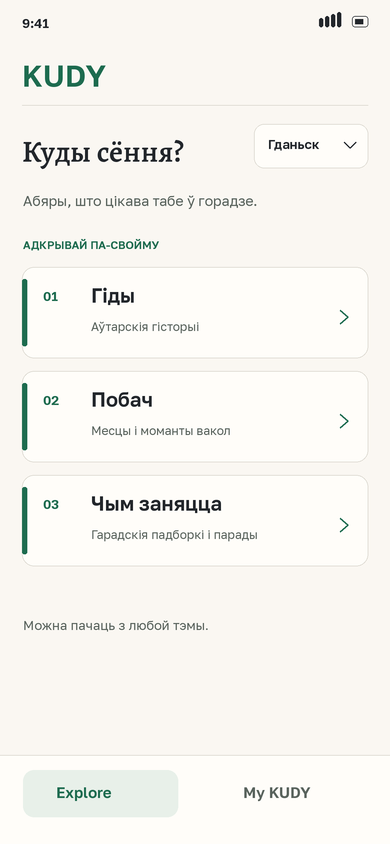
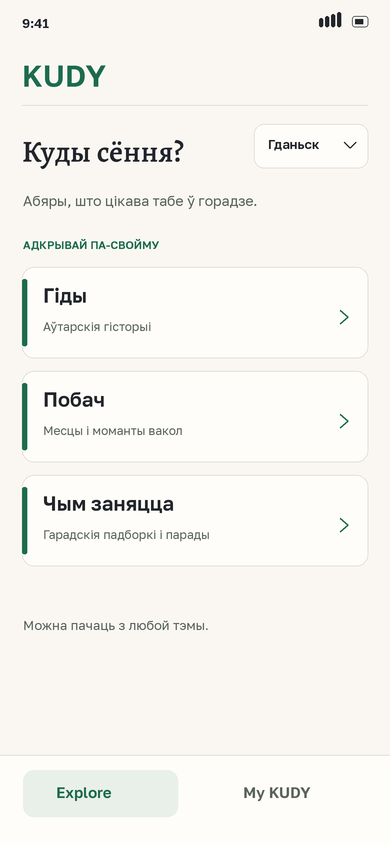
docs(design): compare brand systems and refine KUDY entry

Changed region(s): [[0.0923, 0.5853, 0.6462, 0.6469], [0.0923, 0.4621, 0.5846, 0.5237], [0.0923, 0.3389, 0.5231, 0.4005]]

diff --git a/docs/design/brand/outputs/brand-entry-2026-10-19/render.py b/docs/design/brand/outputs/brand-entry-2026-10-19/render.py
@@ -46,12 +46,11 @@ def base(with_header=True):
     return image
 
 
-def page_card(draw, y, number, title, subline):
+def page_card(draw, y, title, subline):
     draw.rounded_rectangle(at(22, y, 368, y + 91), radius=12 * S, fill=WHITE, outline=HAIRLINE, width=2)
     draw.rounded_rectangle(at(22, y + 12, 27, y + 79), radius=2 * S, fill=GREEN)
-    put(draw, (43, y + 21), number, 13, GREEN, strong=True)
-    put(draw, (91, y + 16), title, 20, strong=True)
-    put(draw, (91, y + 52), subline, 12, MUTED)
+    put(draw, (43, y + 16), title, 20, strong=True)
+    put(draw, (43, y + 52), subline, 12, MUTED)
     draw.line(at(340, y + 43, 348, y + 50, 340, y + 57), fill=GREEN, width=4)
 
 
@@ -79,7 +78,7 @@ def screen(ready):
         width = draw.textbbox((0, 0), word, font=word_font)[2]
         draw.text(((image.width - width) // 2 - 16 * S, 333 * S), word, font=word_font, fill=GREEN)
         draw.line(at(167, 416, 230, 416), fill=GREEN, width=5)
-        put(draw, (115, 553), "Загружаем матэрыялы…", 13, MUTED)
+        put(draw, (115, 553), "Рыхтуем матэрыялы…", 13, MUTED)
     else:
         draw.rounded_rectangle(at(254, 124, 368, 168), radius=10 * S, fill=WHITE, outline=HAIRLINE, width=2)
         put(draw, (268, 136), "Гданьск", 13, strong=True)
@@ -87,9 +86,9 @@ def screen(ready):
         put(draw, (22, 131), "Куды сёння?", 30, display=True)
         put(draw, (23, 192), "Абяры, што цікава табе ў горадзе.", 14, MUTED)
         put(draw, (23, 238), "АДКРЫВАЙ ПА-СВОЙМУ", 11, GREEN, strong=True)
-        page_card(draw, 267, "01", "Гіды", "Аўтарскія гісторыі")
-        page_card(draw, 371, "02", "Побач", "Месцы і моманты вакол")
-        page_card(draw, 475, "03", "Чым заняцца", "Гарадскія падборкі і парады")
+        page_card(draw, 267, "Гіды", "Аўтарскія гісторыі")
+        page_card(draw, 371, "Побач", "Месцы і моманты вакол")
+        page_card(draw, 475, "Чым заняцца", "Гарадскія падборкі і парады")
         put(draw, (23, 617), "Можна пачаць з любой тэмы.", 13, MUTED)
         nav(draw)
     result = image.resize((390, 844), Image.Resampling.LANCZOS)

diff --git a/docs/design/brand/outputs/brand-entry-2026-10-19/research.md b/docs/design/brand/outputs/brand-entry-2026-10-19/research.md
@@ -12,6 +12,28 @@
 | [Google Design: SPAN across cities](https://design.google/library/designing-span-2017) | Модульная абстрактная сістэма працавала ў розных гарадах і маштабах; занадта літаральныя і шумныя варыянты адсеялі пасля праверкі. | Гданьскі фасад можа жыць у мясцовай гісторыі, але не быць пастаянным знакам KUDY. Універсальны элемент трэба праверыць на іншых гарадах. Гэта аналогія, а не норма платформы. |
 | [Duolingo: Reshaping Duo](https://blog.duolingo.com/reshaping-duo/) і [Building Character](https://blog.duolingo.com/building-character/) | Каманда захоўвала пазнавальную форму героя і стварала для іншых персанажаў агульную візуальную мову. | Калі дракон KUDY прысутнічае, яго прапорцыі і матэрыял трэба праектаваць як частку сістэмы. Проста ўставіць сілуэт фігуркі на экран недастаткова. Гэта выснова з кейса, не правіла Duolingo для KUDY. |
 
+## Параўнанне брэнд-сістэм
+
+Тут раздзяляюцца **зафіксаваныя ў крыніцы правілы** і **наш дызайнерскі вывад**. Публічныя матэрыялы розных кампаній маюць розную глыбіню: у Telegram знойдзены афіцыйныя лагатыпы і скрыншоты, але не поўны адкрыты брэндбук. Таму радок Telegram — назіранне за матэрыяламі, не прыпісанае яму ўнутранае правіла.
+
+| Брэнд і першакрыніца | Ідэя ў сістэме | Што пераносім у KUDY; што не капіруем |
+|---|---|---|
+| [Tripadvisor — кейс аўтараў айдэнтыкі Mother Design](https://www.motherdesign.com/work/tripadvisor) | Пераход ад сайта водгукаў да сэрвісу парад з досведу людзей задаў мэту рэдызайну. Саву спрасцілі, захаваўшы пазнавальнасць; Trip Sans, круглая геаметрыя, іконкі і ілюстрацыі працягваюць адзін прынцып. Выявы канкрэтных месцаў могуць змяняцца, а сістэма трымаецца. | Для KUDY пачынаць з абяцання «адкрываць горад праз аўтарскія гісторыі», а затым будаваць тыпаграфіку, знакі, кампазіцыю і тон разам. Не рабіць адной мясцовай панарамы пастаяннай выявай усёй праграмы і не запазычваць саву ці круглую геаметрыю. |
+| [Instagram — Design at Meta, рэдакцыя 2026](https://www.meta.com/design-at-meta/blog/the-new-instagram-brand-identity/) | Абноўлены вордмарк захаваў характар папярэдняга напісання. Градыент стаў больш стрыманым у руху, раскладцы і інтэрфейсе; паветра ў кампазіцыі дазваляе зместу супольнасці быць галоўным. | Сталыя KUDY, папера, зялёны і чарніла могуць абрамляць зменныя гісторыі гарадоў. Не пераносіць градыент ці эстэтыку сацыяльнай стужкі; свабодная прастора патрэбная, каб падказкі і гіды чыталіся. |
+| [Telegram — афіцыйныя лагатыпы і скрыншоты](https://telegram.org/tour/screenshots) | У апублікаваных матэрыялах паслядоўны знак самалёціка суіснуе са скрыншотамі, дзе асноўнае месца займаюць размовы. Гэта **наша назіранне**, а не цытата з брэндбука. | Паслядоўны знак не патрабуе маляваць яго вялікім на кожным экране. Для KUDY пакуль няма прынятага знака B05, таму не ператвараем дракона ў такую іконку без рашэння. |
+| [X — актуальны брэнд-кіт](https://about.x.com/en/who-we-are/brand-toolkit) і [кароткія правілы X](https://about.x.com/content/dam/about-twitter/x/brand-toolkit/x-brand-guidelines.pdf) | Сённяшні знак X задаецца ў чорным або белым, з кантрастам і ахоўнай прасторай. Актуальны набор адрозніваецца ад гістарычнай птушкі Twitter; яго старое імя не апісвае сённяшні візуальны канон. | Правілы ўзнаўлення знака патрэбныя пасля выбару B05: колер, памер, поле, цёмная тэма. Не падмяняць прадукт абстрактнай манаграмай без праверкі распазнання і не капіраваць манахром X як характар KUDY. |
+| [Duolingo — лагатыпы](https://design.duolingo.com/identity/logos), [вобраз героя](https://design.duolingo.com/identity/imagery) | Форма Duo звязана з фірмовым напісаннем, іконкай, ілюстрацыяй і голасам персанажа; герой мае зададзеныя ролю і паводзіны. | Дракон KUDY можа быць гідам у гісторыі, але яго знешнасць, маштаб і спосаб з'яўлення павінны быць правераныя па сапраўднай фігурцы і зададзеныя сістэмна. Манеру Duolingo з настойлівымі нагадваннямі не пераносім: брыф KUDY патрабуе свабоды і маўчання. |
+| [Spotify — афіцыйныя правілы для інтэграцый](https://developer.spotify.com/documentation/design) | У партнёрскіх кантэкстах выкарыстоўваецца поўнае спалучэнне знака і назвы; асобная іконка дапускаецца пры малым месцы або калі брэнд ужо вядомы. Прапісаныя памер, кантраст і свабоднае поле. Гэта правілы **для партнёраў**, не поўная інструкцыя ўнутранага інтэрфейсу Spotify. | Пакуль знак KUDY не ўхвалены і не навучаны аўдыторыі, назва павінна чытацца на ўваходзе. У будучым для B05 патрэбныя правілы памераў і кантрасту. Не лічыць, што адзін сілуэт дракона ўжо распазнаецца як KUDY. |
+| [Mastercard — Brand Center](https://www.mastercard.com/brandcenter/us/en/brand-requirements/mastercard.html) | Знак, назва і канфігурацыі маюць дакладныя ўмовы кантрасту, мінімальнага памеру, ахоўнага поля і дапушчальнага колеру. Самастойны сімвал працуе ў межах вызначанага кантэксту і даўно замацаванай пазнавальнасці. | Для будучай іконкі KUDY патрэбная асобная тэхнічная спецыфікацыя, асабліва для Android/iOS і малых памераў. Гэта не аргумент узяць любую простую форму і назваць яе лагатыпам. |
+
+### Прафесійныя крытэрыі, якія вынікаюць з параўнання
+
+1. **Ідэя → знак → сістэма → экран.** Спачатку фармулюем каштоўнасць і ролю прадукту; правяраем, ці падтрымліваюць яе назва, матэрыял, тыпаграфіка, іконкі, тон і дзеянні. Адзіны малюнак не закрывае гэты ланцуг.
+2. **Пастаяннае аддзяляецца ад зменнага.** Назва і візуальная граматыка пазнавальныя на ўсіх гарадах; горад, гід, фотаздымак і дракон у сюжэце служаць канкрэтнаму зместу. Гэта дызайнерскі вывад з Tripadvisor і Instagram, узгоднены з нашым брыфам.
+3. **Сімвал патрабуе кантракту ўжывання.** Патрэбныя маштаб, кантраст, ахоўная зона, варыянты фону, праверка маленькай іконкі і зразумелая сувязь з імем. У KUDY B05 адкрыты, таму на ўваходзе пакуль галоўная назва.
+4. **Першы карысны экран — частка брэнда.** Ён павінен даць чалавеку рэальны шлях да гарадскіх гісторый і выбару, а не толькі паказаць графіку. Брэнд праяўляецца ў свабодзе выбару, ціхім тоне і прадказальнай рэакцыі на націск.
+5. **Платформа мае свае абмежаванні.** Натуральны launch iOS/Android, сапраўднае чаканне даных і гатовы Explore — тры розныя станы. Не праектаваць рэкламны плакат у месцы сістэмнай заставы.
+
 ## Супастаўленне з нашым брэндам
 
 [Брыф](../../atlas-brief.md) замацоўвае імя **KUDY**, ідэю самастойнага адкрыцця, гліну і паперу, а таксама дракона як спадарожніка, які ўмее маўчаць. Яго ж правіла: галоўныя матэрыялы і характар пазнавальныя паўсюль, гарадскія ілюстрацыі расказваюць пра канкрэтнае месца. [Рэестр](../../decisions.md) пакідае іконку B05 і знешні тагляйн B06 адкрытымі; [візуальны канон](../../../visual-language.md) замацоўвае паперу, зялёны, чарніла і ролі шрыфтоў. Таму ў макеце не зацвярджаем новы знак, горад ці фразу як вечны сімвал брэнда.

diff --git a/docs/design/brand/outputs/brand-entry-2026-10-19/README.md b/docs/design/brand/outputs/brand-entry-2026-10-19/README.md
@@ -1,6 +1,6 @@
 # KUDY: брэндавы ўваход без героя і горада як лагатыпа
 
-[Пара мабільных макетаў](entry-pair.png) у памеры 390 × 844: [стан чакання зместу](01-loading.png) і [гатовы Explore](02-ready.png). Спачатку прачытаныя [крыніцы і супастаўленне з брэндам](research.md); уся пара — прапанова для абмеркавання, не новая рэдакцыя дызайн-канона.
+[Пара мабільных макетаў](entry-pair.png) у памеры 390 × 844: [стан чакання зместу](01-loading.png) і [гатовы Explore](02-ready.png). Спачатку прачытаныя [платформавыя правілы і параўнанне Tripadvisor, Instagram, Telegram, X/Twitter, Duolingo, Spotify і Mastercard з KUDY](research.md); уся пара — прапанова для абмеркавання, не новая рэдакцыя дызайн-канона.
 
 ## Брэндавая іерархія
 
@@ -13,11 +13,11 @@
 
 Сістэмны экран запуску iOS/Android кіруецца платформай; гэта **не** малюнак `01-loading.png`. На Android яго канчатковая цэнтральная іконка залежыць ад рашэння B05. [Apple](https://developer.apple.com/design/human-interface-guidelines/launching) раіць не ўтрымліваць чалавека на launch screen дзеля брэнда, а [Android](https://developer.android.com/develop/ui/views/launch/splash-screen) задае памеры і маску іконкі.
 
-`01-loading.png` — стан **унутры праграмы**, толькі калі яна сапраўды чакае каталог або іншыя патрэбныя даныя. Ён паказвае KUDY і сумленнае «Загружаем матэрыялы…»; няма фальшывага працэнта, кнопак або просьбы пра геалакацыю. Пры хуткім старце гэты стан прапускаецца. Калі чаканне сканчаецца памылкай, патрэбны асобны экран з прычынай і даступным дзеяннем, а не бясконцае чаканне.
+`01-loading.png` — стан **унутры праграмы**, толькі калі яна сапраўды чакае каталог або іншыя патрэбныя даныя. Ён паказвае KUDY і сумленнае «Рыхтуем матэрыялы…»; няма фальшывага працэнта, кнопак або просьбы пра геалакацыю. Пры хуткім старце гэты стан прапускаецца. Калі чаканне сканчаецца памылкай, патрэбны асобны экран з прычынай і даступным дзеяннем, а не бясконцае чаканне.
 
 `02-ready.png` — першы карысны экран да выбару гіда або маршруту. Тут ёсць зменны горад і тры падпісаныя напрамкі: «Гіды» адкрываюць аўтарскія гісторыі, «Побач» — гарадскія месцы, «Чым заняцца» — падборкі і парады. Explore і My KUDY — дзве асноўныя паверхні паводле [структуры прадукту](../../../../01_product_structure.md). Назвы і канкрэтная кампазіцыя яшчэ патрабуюць рашэння B06. Націсканне на рубрыку не запускае аўдыё і не выбірае маршрут.
 
-Карткі маюць зоны дотыку 91 px і бачны тэкст замест дадатковых непацверджаных іконак. Пры націску прапануецца мяккая зялёная заліўка і зрух на 1 px на 120 мс; пры фокусе — зялёны контур; пры паменшаным руху — без зруху. Калі ў горадзе няма апублікаваных гідаў, рубрыка не паказвае фальшывы каталог; пусты стан бярэцца з [NAV2/NAV3](../../../screens-and-transitions.md).
+Карткі маюць зоны дотыку 91 px і бачны тэкст замест дадатковых непацверджаных іконак. Нумарацыі няма: яна памылкова намякала б на абавязковую паслядоўнасць, хоць чалавек можа выбраць любы напрамак. Пры націску прапануецца мяккая зялёная заліўка і зрух на 1 px на 120 мс; пры фокусе — зялёны контур; пры паменшаным руху — без зруху. Калі ў горадзе няма апублікаваных гідаў, рубрыка не паказвае фальшывы каталог; пусты стан бярэцца з [NAV2/NAV3](../../../screens-and-transitions.md).
 
 У бягучай [структуры Explore](../../../../01_product_structure.md) і [брэндавым сінтэзе](../../2026-10-17-requirements-synthesis.md) патрэбна таксама канкрэтная карысная прапанова, калі яна апублікаваная. Гэты макет паказвае ўваход **перад** выбарам рубрыкі; перад інтэграцыяй трэба праверыць, як дадаць гэтую прапанову без падмены KUDY мясцовай вокладкай. Гэта адкрытае дызайнерскае пытанне, а не маўклівая змена канону.
 
